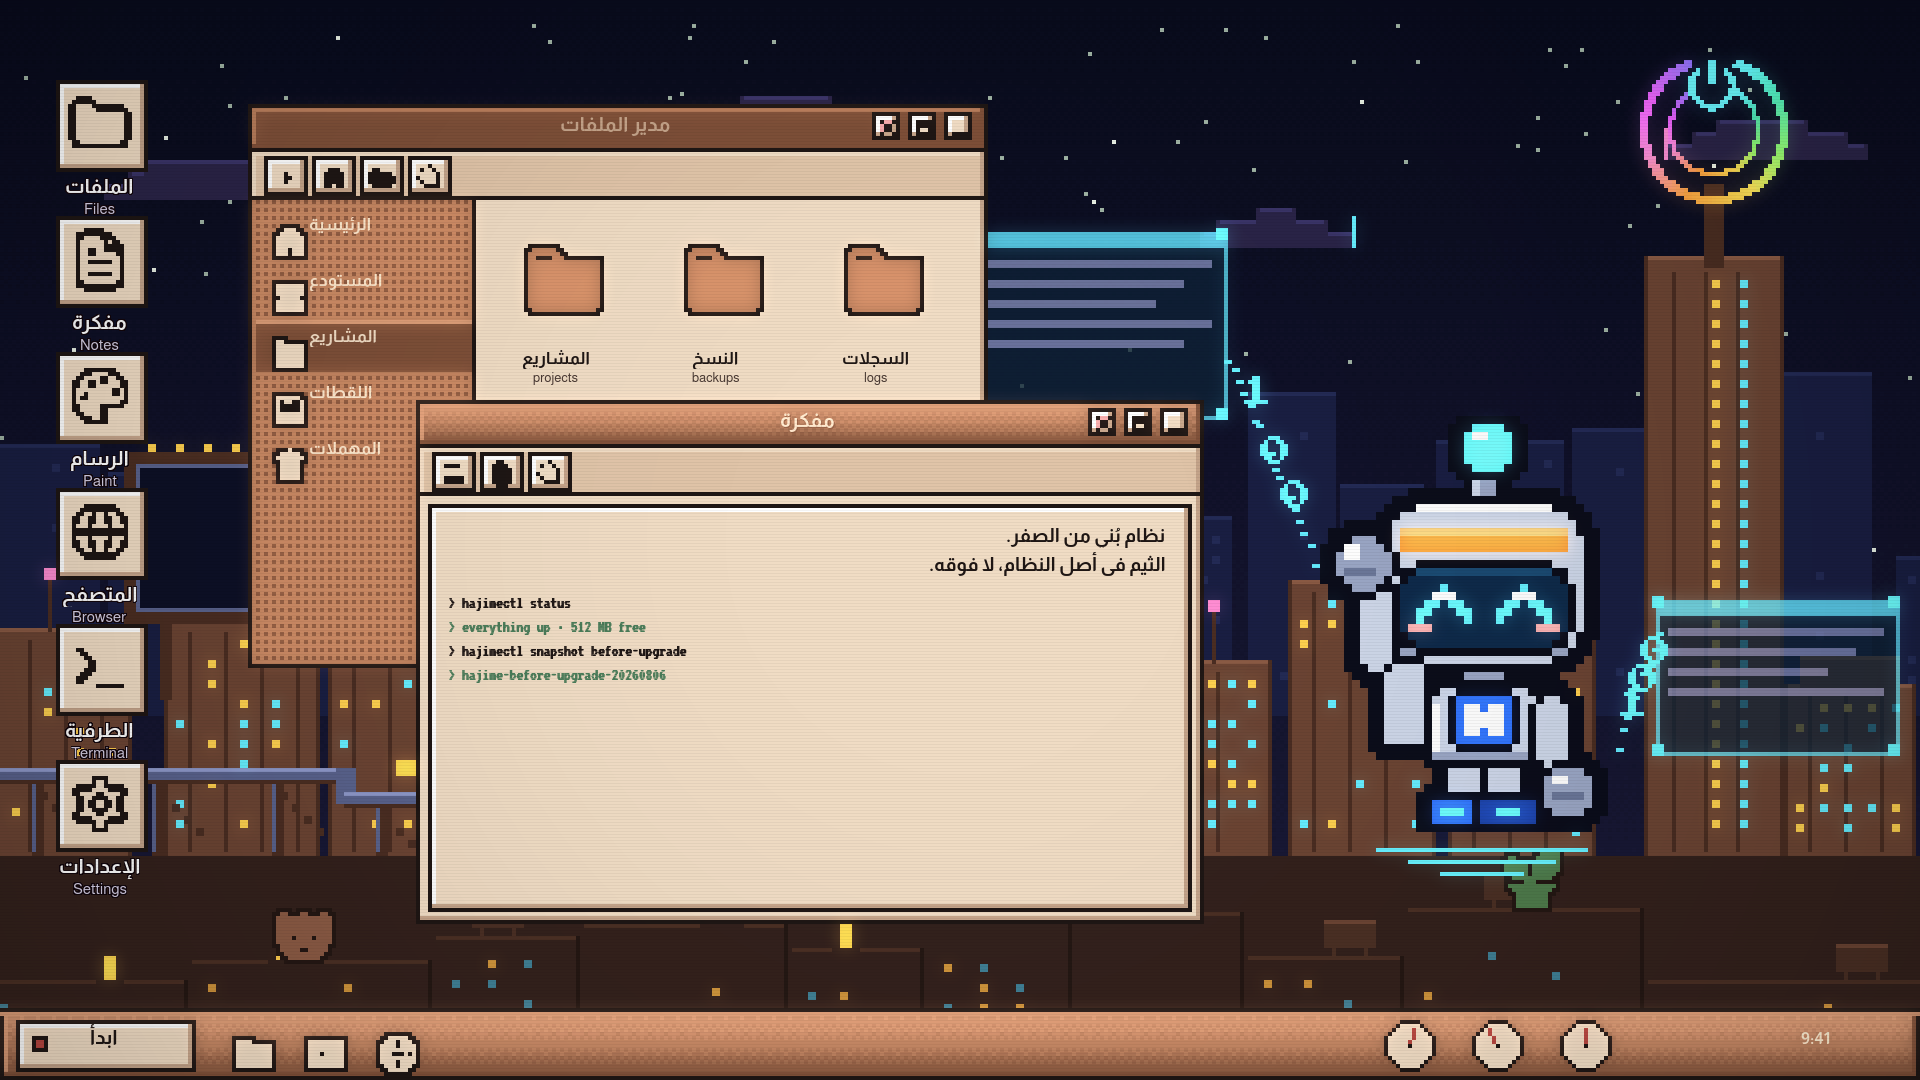
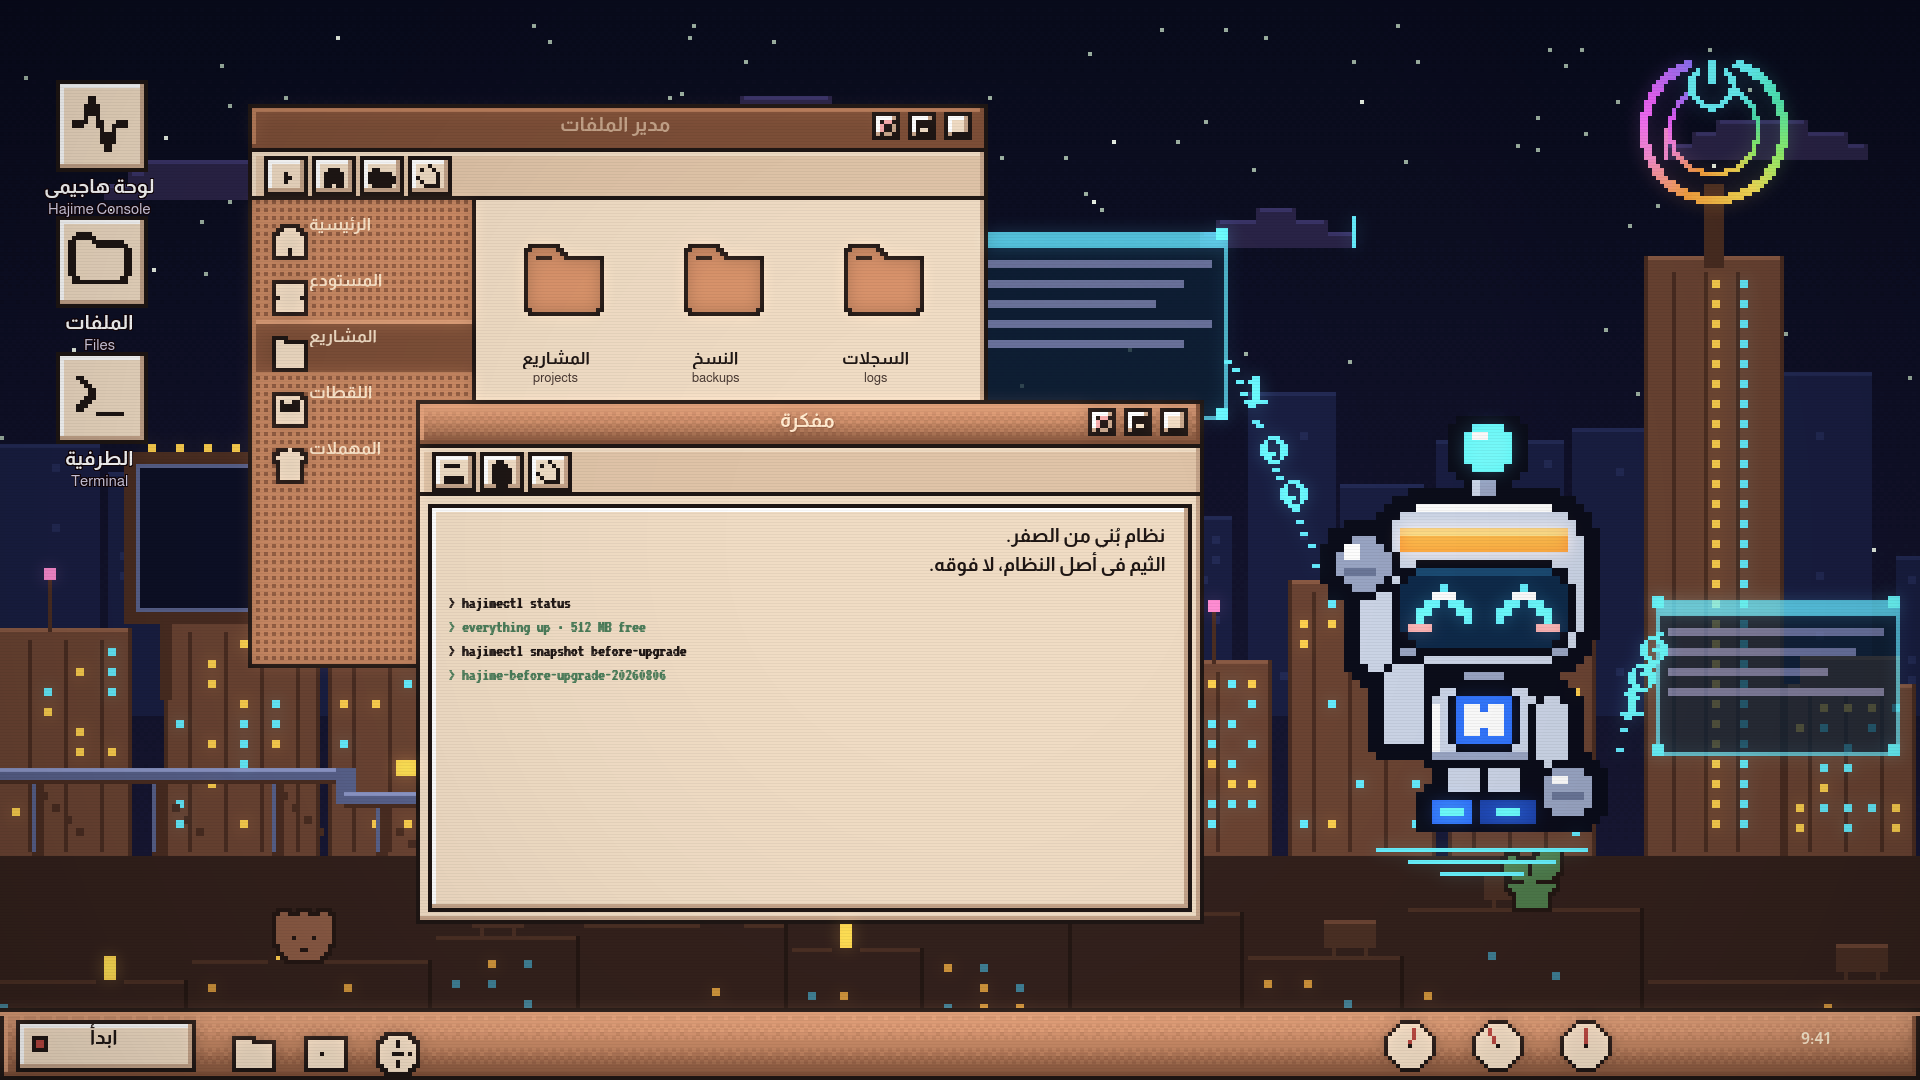
brand: the picture stops promising applications the machine does not have
The launcher column in the desktop artwork was a list typed into desktop.py. It
named six applications -- files, notes, paint, browser, terminal, settings --
while install_theme.sh shipped three launchers. Anyone looking at the picture
would have gone looking for a paint program.

It now reads ../desktop/*.desktop, the same files the panel reads at run time,
so the artwork cannot get ahead of the system. Each launcher carries an
X-Hajime-Icon key naming its Lucide glyph, which is what an X- key is for. Add a
launcher and it appears in the picture; remove one and it goes.

Also fixes the dry run. install_theme.sh stopped at the first blocker even with
--dry-run, which is the opposite of what a dry run is for and the opposite of
what install_hajime_os.sh does: the point is to see the whole plan, and a run
that halts on the first problem hides the four behind it. It now counts
blockers, keeps going, and exits non-zero at the end if it found any.

Changed region(s): [[0.0312, 0.0917, 0.0938, 0.825]]

diff --git a/hajime-brand/tools/desktop.py b/hajime-brand/tools/desktop.py
@@ -25,18 +25,34 @@ import ui
 BASE = scenes.BASE
 K = scenes.K
 
-# The launchers down the left edge: a Lucide name and the two labels it is read
-# under. Both languages appear because the system is localised, not because the
-# words are painted into the picture -- on the running desktop these come from
-# the locale and the .desktop files, the same way they do on any other system.
-LAUNCHERS = [
-    ("folder", "الملفات", "Files"),
-    ("file-text", "مفكرة", "Notes"),
-    ("palette", "الرسام", "Paint"),
-    ("globe", "المتصفح", "Browser"),
-    ("terminal", "الطرفية", "Terminal"),
-    ("settings", "الإعدادات", "Settings"),
-]
+def launchers() -> list[tuple[str, str, str]]:
+    """The launchers down the left edge, read from the launchers themselves.
+
+    This list used to be typed here, and it named six applications while the
+    installer shipped three: a picture of a desktop with a paint program on it
+    that nothing would ever open. Reading ../desktop/*.desktop instead means the
+    artwork cannot promise something the machine does not have -- add a launcher
+    and it appears, remove one and it goes.
+
+    Both languages come from the same file the panel reads at run time, so what
+    the picture shows in Arabic is what the Arabic session will show.
+    """
+    found = []
+    for path in sorted((scenes.px.ROOT / "desktop").glob("*.desktop")):
+        fields = {}
+        for line in path.read_text(encoding="utf-8").splitlines():
+            if "=" in line and not line.startswith("#"):
+                key, _, value = line.partition("=")
+                fields[key.strip()] = value.strip()
+        icon = fields.get("X-Hajime-Icon")
+        name = fields.get("Name")
+        name_ar = fields.get("Name[ar]")
+        if icon and name and name_ar:
+            found.append((icon, name_ar, name))
+    return found
+
+
+LAUNCHERS = launchers()
 
 # Both windows sit left of centre so the robot on the wallpaper stays visible.
 # A picture of a desktop that buries the wallpaper's subject is a picture of a
